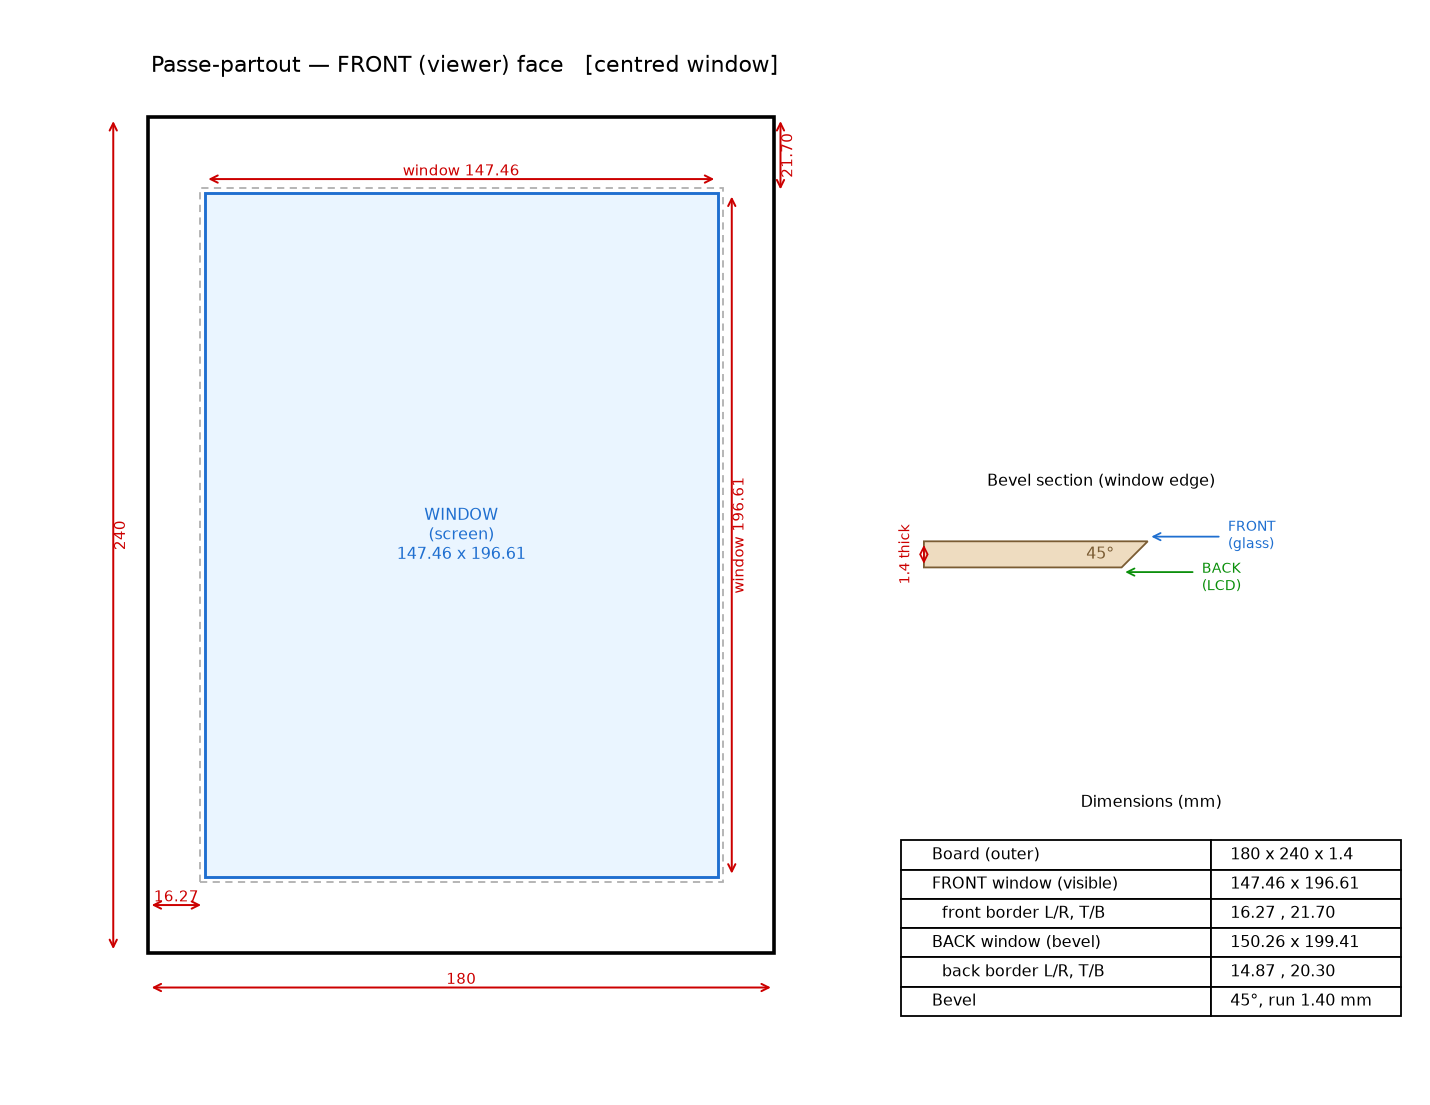
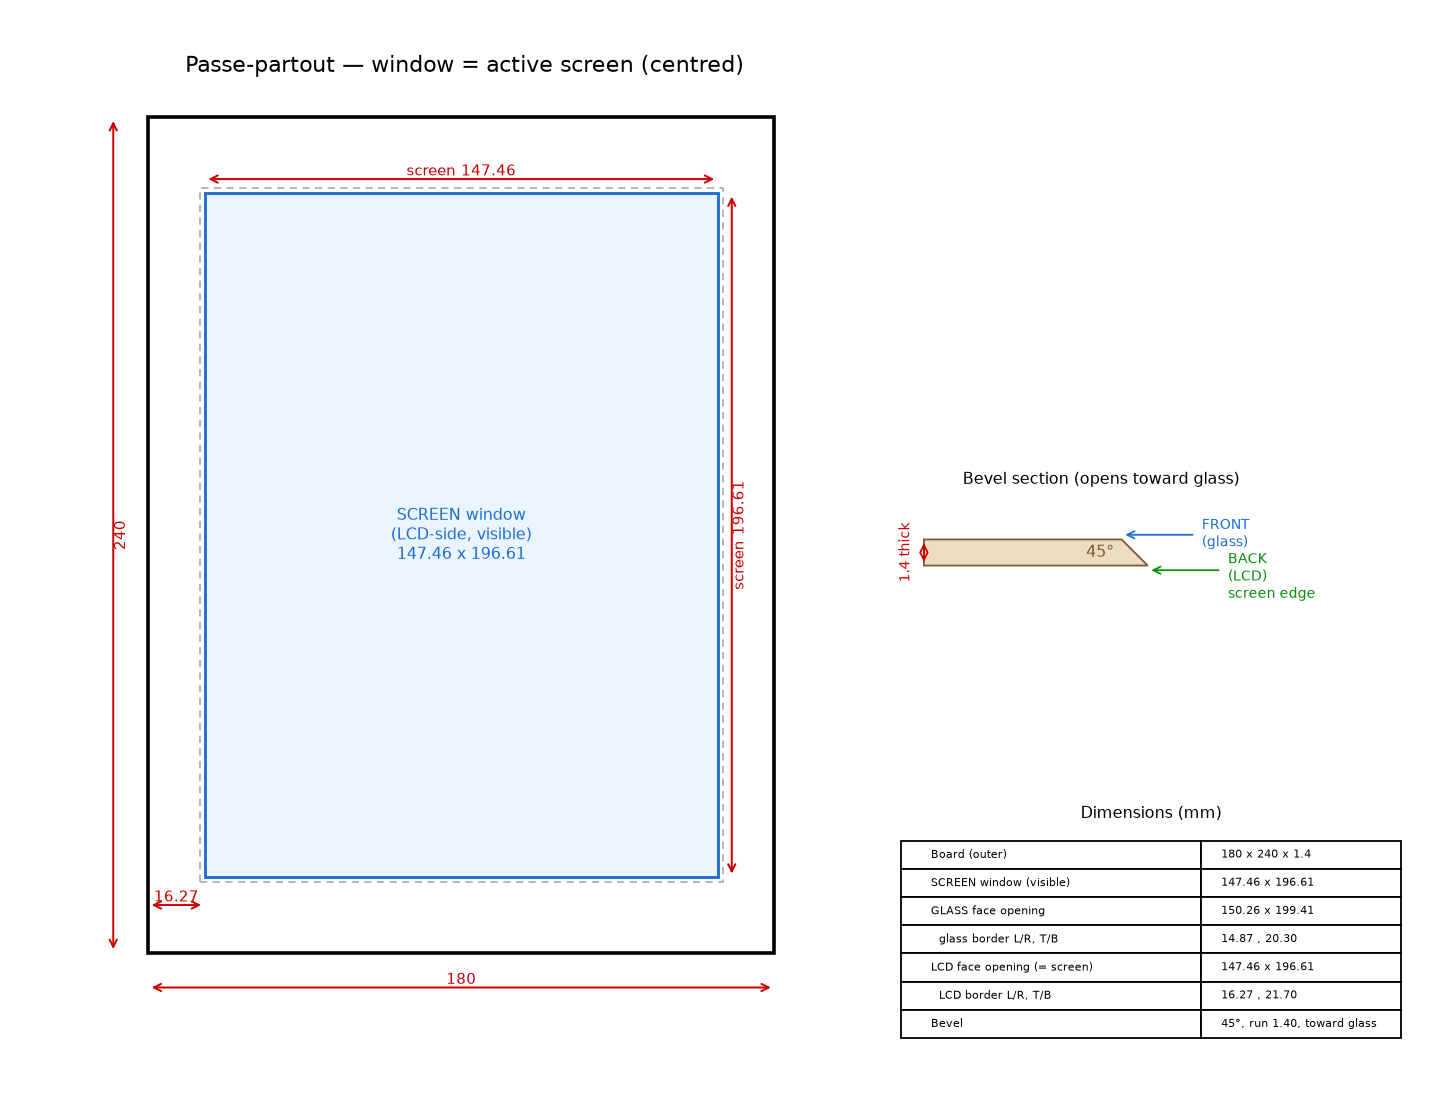
Passe-partout: flip bevel to open toward the glass (screen edge on the LCD side)
Bevel was on the wrong side (standard picture-mat: small opening at the glass).
For a screen the limiting edge should sit at the screen plane: put the
screen-sized opening (147.46 x 196.61) on the LCD-facing back face and flare the
45deg bevel toward the glass/viewer. Glass-face opening 150.26 x 199.41 (borders
14.87/20.30); LCD-face borders 16.27/21.70. BEVEL_TOWARD param ('glass' default,
'lcd' for standard). DXF layers WINDOW_SCREEN / WINDOW_GLASS.

diff --git a/passepartout.py b/passepartout.py
@@ -3,100 +3,110 @@
 that reveals only the active screen (147.456 x 196.608). The brackets centre the ACTIVE area at the
 frame centre, so the window is centred in the board (symmetric).
 
-Outputs: images/passepartout.png (dimensioned drawing) + passepartout.dxf (cut lines) + a printed
-dimension table.
-Run: cqenv/bin/python passepartout.py   (uses matplotlib; DXF is hand-rolled, no deps)
+Bevel: the SCREEN-sized (limiting) opening is on the LCD-facing (back) face, right at the screen
+plane; the bevel opens OUT toward the glass/viewer (white bevel faces you). Set BEVEL_TOWARD="lcd"
+for the standard picture-mat direction (small opening at the glass).
+
+Outputs: images/passepartout.png (dimensioned drawing) + passepartout.dxf + a printed table.
+Run: cqenv/bin/python passepartout.py
 """
-import json
+import json, math
 import matplotlib
 matplotlib.use("Agg")
 import matplotlib.pyplot as plt
-from matplotlib.patches import Rectangle
+from matplotlib.patches import Rectangle, Polygon
 
 G = json.load(open("geometry.json"))
 ACT_W, ACT_H = G["active"]["W"], G["active"]["H"]          # 147.456 x 196.608 (the lit screen)
 
 # ---- parameters ----
-BOARD_W, BOARD_H = 180.0, 240.0     # mat outer size (frame inner is 182x242 -> ~1mm clearance/side)
+BOARD_W, BOARD_H = 180.0, 240.0     # mat outer (frame inner 182x242 -> ~1mm clearance/side)
 THICK = 1.4                         # mat thickness
-BEVEL_DEG = 45.0                    # cutter angle
-OVERLAP = 0.0                       # mat covers this much of the screen edge all round (raise to ~1.0
-                                    # to guarantee no bezel sliver if alignment is imperfect)
+BEVEL_DEG = 45.0
+OVERLAP = 0.0                       # mat covers this much of the screen edge all round (raise ~1.0
+                                    # to guarantee no bezel sliver)
+BEVEL_TOWARD = "glass"              # "glass" = bevel opens toward viewer, screen-sized edge on LCD side
+                                    # "lcd"   = standard picture-mat, screen-sized edge on glass side
 
-import math
-RUN = THICK * math.tan(math.radians(BEVEL_DEG))            # horizontal bevel run = 1.4 at 45 deg
-FW, FH = ACT_W - 2 * OVERLAP, ACT_H - 2 * OVERLAP          # FRONT (visible) window = what you see
-BW, BH = FW + 2 * RUN, FH + 2 * RUN                        # BACK window (bevel flares toward the LCD)
-fbx, fby = (BOARD_W - FW) / 2, (BOARD_H - FH) / 2          # front border L/R, T/B
-bbx, bby = (BOARD_W - BW) / 2, (BOARD_H - BH) / 2          # back border
+RUN = THICK * math.tan(math.radians(BEVEL_DEG))            # 1.4 at 45 deg
+SW, SH = ACT_W - 2 * OVERLAP, ACT_H - 2 * OVERLAP          # SCREEN opening (limiting / crop = visible)
+LW, LH = SW + 2 * RUN, SH + 2 * RUN                        # the LARGER opening on the other face
+
+if BEVEL_TOWARD == "glass":     # screen-sized edge on the LCD/back face; flare toward the glass
+    glassW, glassH = LW, LH     # glass (front) opening = larger
+    lcdW, lcdH = SW, SH         # lcd (back) opening = screen
+else:                            # standard: screen-sized edge on the glass/front face
+    glassW, glassH = SW, SH
+    lcdW, lcdH = LW, LH
+
+gbx, gby = (BOARD_W - glassW) / 2, (BOARD_H - glassH) / 2  # glass-side borders
+lbx, lby = (BOARD_W - lcdW) / 2, (BOARD_H - lcdH) / 2      # lcd-side borders
 
 print("=== Passe-partout dimensions (mm) ===")
-print(f"Board (outer)        : {BOARD_W} x {BOARD_H}  x {THICK} thick")
-print(f"FRONT window (visible): {FW:.3f} x {FH:.3f}   (= active screen{'' if OVERLAP==0 else f' - {OVERLAP} overlap'})")
-print(f"  front borders       : {fbx:.3f} (L=R)   {fby:.3f} (T=B)")
-print(f"BACK window           : {BW:.3f} x {BH:.3f}   (45deg bevel, +{RUN:.2f}/edge toward LCD)")
-print(f"  back borders        : {bbx:.3f} (L=R)   {bby:.3f} (T=B)")
+print(f"Board (outer)        : {BOARD_W} x {BOARD_H} x {THICK}   bevel opens toward {BEVEL_TOWARD.upper()}")
+print(f"SCREEN opening (visible/crop): {SW:.3f} x {SH:.3f}  -> on the {'LCD/back' if BEVEL_TOWARD=='glass' else 'glass/front'} face")
+print(f"GLASS (front) face opening   : {glassW:.3f} x {glassH:.3f}   borders {gbx:.3f} (L=R) , {gby:.3f} (T=B)")
+print(f"LCD   (back)  face opening   : {lcdW:.3f} x {lcdH:.3f}   borders {lbx:.3f} (L=R) , {lby:.3f} (T=B)")
+print(f"Bevel: 45 deg, run {RUN:.2f} mm/edge")
 
 # ---------------- DRAWING ----------------
 fig = plt.figure(figsize=(11, 8.5))
 ax = fig.add_axes([0.05, 0.07, 0.55, 0.86]); ax.set_aspect("equal")
-# board
-ax.add_patch(Rectangle((0, 0), BOARD_W, BOARD_H, fill=False, ec="black", lw=2))
-# front window (solid) + back window (dashed = bevel flare)
-ax.add_patch(Rectangle((bbx, bby), BW, BH, fill=False, ec="#b0b0b0", lw=1.0, ls=(0, (4, 3))))
-ax.add_patch(Rectangle((fbx, fby), FW, FH, fill="#dff0ff", ec="#1f6fd0", lw=1.6, fc="#eaf5ff"))
-ax.text(BOARD_W / 2, BOARD_H / 2, "WINDOW\n(screen)\n%.2f x %.2f" % (FW, FH),
+ax.add_patch(Rectangle((0, 0), BOARD_W, BOARD_H, fill=False, ec="black", lw=2))           # board
+ax.add_patch(Rectangle((gbx, gby), glassW, glassH, fill=False, ec="#b0b0b0", lw=1.0, ls=(0, (4, 3))))  # glass-side opening
+ax.add_patch(Rectangle((lbx, lby), lcdW, lcdH, fill="#dff0ff", ec="#1f6fd0", lw=1.6, fc="#eaf5ff"))    # screen (LCD side)
+ax.text(BOARD_W / 2, BOARD_H / 2, "SCREEN window\n(LCD-side, visible)\n%.2f x %.2f" % (SW, SH),
         ha="center", va="center", color="#1f6fd0", fontsize=9)
+
 
 def dim_h(x0, x1, y, txt, off=0):
     ax.annotate("", (x0, y), (x1, y), arrowprops=dict(arrowstyle="<->", color="#c00", lw=1.1))
     ax.text((x0 + x1) / 2, y + off, txt, ha="center", va="bottom", color="#c00", fontsize=8.5)
 
+
 def dim_v(x, y0, y1, txt, off=0):
     ax.annotate("", (x, y0), (x, y1), arrowprops=dict(arrowstyle="<->", color="#c00", lw=1.1))
     ax.text(x + off, (y0 + y1) / 2, txt, ha="left", va="center", color="#c00", fontsize=8.5, rotation=90)
 
-dim_h(0, BOARD_W, -10, f"{BOARD_W:.0f}")                         # outer width
-dim_v(-10, 0, BOARD_H, f"{BOARD_H:.0f}")                         # outer height
-dim_h(fbx, fbx + FW, fby + FH + 4, f"window {FW:.2f}")           # window width
-dim_v(fbx + FW + 4, fby, fby + FH, f"window {FH:.2f}")           # window height
-dim_h(0, fbx, fby - 8, f"{fbx:.2f}")                             # left border
-dim_v(fbx + FW + 18, fby + FH, BOARD_H, f"{fby:.2f}")            # top border
+
+dim_h(0, BOARD_W, -10, f"{BOARD_W:.0f}")
+dim_v(-10, 0, BOARD_H, f"{BOARD_H:.0f}")
+dim_h(lbx, lbx + lcdW, lby + lcdH + 4, f"screen {SW:.2f}")
+dim_v(lbx + lcdW + 4, lby, lby + lcdH, f"screen {SH:.2f}")
+dim_h(0, lbx, lby - 8, f"{lbx:.2f}")                                       # lcd-side border (screen)
 ax.set_xlim(-22, BOARD_W + 24); ax.set_ylim(-20, BOARD_H + 10)
-ax.set_title("Passe-partout — FRONT (viewer) face   [centred window]")
+ax.set_title("Passe-partout — window = active screen (centred)")
 ax.axis("off")
 
-# ---- bevel cross-section detail (right) ----
-bx = fig.add_axes([0.62, 0.30, 0.30, 0.40])
-T = THICK; r = RUN; scale = 1
-# section: top = FRONT/glass (small opening), bottom = BACK/LCD (large opening). show left edge of window.
-# draw mat material as two trapezoids on each side; here show the left edge bevel
-x_face_front = 0.0          # front inner edge (window edge, viewer)
-x_face_back = -r            # back inner edge (flares outward toward LCD)
-# mat body to the left
-bx.add_patch(plt.Polygon([(-12, 0), (x_face_back, 0), (x_face_front, T), (-12, T)],
-                         closed=True, fc="#eedcc0", ec="#7a5c33"))
-bx.annotate("", (x_face_front, T + 0.25), (x_face_front + 4, T + 0.25), arrowprops=dict(arrowstyle="->", color="#1f6fd0"))
-bx.text(x_face_front + 4.3, T + 0.3, "FRONT\n(glass)", va="center", fontsize=8, color="#1f6fd0")
-bx.annotate("", (x_face_back, -0.25), (x_face_back + 4, -0.25), arrowprops=dict(arrowstyle="->", color="#0a8f0a"))
-bx.text(x_face_back + 4.3, -0.55, "BACK\n(LCD)", va="center", fontsize=8, color="#0a8f0a")
+# ---- bevel cross-section (top = FRONT/glass, bottom = BACK/LCD) ----
+bx = fig.add_axes([0.62, 0.30, 0.30, 0.40]); T = THICK; r = RUN
+# inner window edges (left edge): glass-face at xg, lcd-face at xl ; screen edge is the smaller opening
+xg = 0.0 if BEVEL_TOWARD == "lcd" else -r        # glass-face inner edge
+xl = -r if BEVEL_TOWARD == "lcd" else 0.0        # lcd-face inner edge
+bx.add_patch(Polygon([(-12, 0), (xl, 0), (xg, T), (-12, T)], closed=True, fc="#eedcc0", ec="#7a5c33"))
+bx.annotate("", (xg, T + 0.25), (xg + 4, T + 0.25), arrowprops=dict(arrowstyle="->", color="#1f6fd0"))
+bx.text(xg + 4.3, T + 0.3, "FRONT\n(glass)", va="center", fontsize=8, color="#1f6fd0")
+bx.annotate("", (xl, -0.25), (xl + 4, -0.25), arrowprops=dict(arrowstyle="->", color="#0a8f0a"))
+bx.text(xl + 4.3, -0.6, "BACK\n(LCD)\nscreen edge" if BEVEL_TOWARD == "glass" else "BACK\n(LCD)",
+        va="center", fontsize=8, color="#0a8f0a")
 bx.annotate("", (-12, 0), (-12, T), arrowprops=dict(arrowstyle="<->", color="#c00", lw=1))
 bx.text(-12.6, T / 2, f"{T} thick", rotation=90, ha="right", va="center", color="#c00", fontsize=8)
-bx.text(x_face_back - 0.4, T / 2, "45°", ha="right", va="center", fontsize=9, color="#7a5c33")
-bx.set_xlim(-14, 9); bx.set_ylim(-2.2, T + 2.4); bx.set_aspect("equal"); bx.axis("off")
-bx.set_title("Bevel section (window edge)", fontsize=9)
+bx.text(min(xg, xl) - 0.4, T / 2, "45°", ha="right", va="center", fontsize=9, color="#7a5c33")
+bx.set_xlim(-14, 9); bx.set_ylim(-2.4, T + 2.4); bx.set_aspect("equal"); bx.axis("off")
+bx.set_title("Bevel section (opens toward glass)", fontsize=9)
 
-# ---- dimension table (bottom right) ----
-tx = fig.add_axes([0.63, 0.06, 0.35, 0.2]); tx.axis("off")
+# ---- table ----
+tx = fig.add_axes([0.63, 0.05, 0.35, 0.2]); tx.axis("off")
 rows = [
     ("Board (outer)", f"{BOARD_W:.0f} x {BOARD_H:.0f} x {THICK}"),
-    ("FRONT window (visible)", f"{FW:.2f} x {FH:.2f}"),
-    ("  front border L/R, T/B", f"{fbx:.2f} , {fby:.2f}"),
-    ("BACK window (bevel)", f"{BW:.2f} x {BH:.2f}"),
-    ("  back border L/R, T/B", f"{bbx:.2f} , {bby:.2f}"),
-    ("Bevel", f"45°, run {r:.2f} mm"),
+    ("SCREEN window (visible)", f"{SW:.2f} x {SH:.2f}"),
+    ("GLASS face opening", f"{glassW:.2f} x {glassH:.2f}"),
+    ("  glass border L/R, T/B", f"{gbx:.2f} , {gby:.2f}"),
+    ("LCD face opening (= screen)", f"{lcdW:.2f} x {lcdH:.2f}"),
+    ("  LCD border L/R, T/B", f"{lbx:.2f} , {lby:.2f}"),
+    ("Bevel", f"45°, run {r:.2f}, toward {BEVEL_TOWARD}"),
 ]
-tx.table(cellText=rows, colWidths=[0.62, 0.38], loc="center", cellLoc="left").scale(1, 1.35)
+tx.table(cellText=rows, colWidths=[0.6, 0.4], loc="center", cellLoc="left").scale(1, 1.3)
 tx.set_title("Dimensions (mm)", fontsize=9)
 
 fig.savefig("images/passepartout.png", dpi=130)
@@ -107,10 +117,11 @@ def rect(cx, cy, w, h):
     x0, y0, x1, y1 = cx - w / 2, cy - h / 2, cx + w / 2, cy + h / 2
     return [(x0, y0, x1, y0), (x1, y0, x1, y1), (x1, y1, x0, y1), (x0, y1, x0, y0)]
 
+
 ox, oy = BOARD_W / 2, BOARD_H / 2
 lines = {"BOARD": rect(ox, oy, BOARD_W, BOARD_H),
-         "WINDOW_FRONT": rect(ox, oy, FW, FH),
-         "WINDOW_BACK": rect(ox, oy, BW, BH)}
+         "WINDOW_SCREEN": rect(ox, oy, SW, SH),          # LCD-side, the visible crop
+         "WINDOW_GLASS": rect(ox, oy, glassW, glassH)}   # glass-side (larger, bevel mouth)
 out = ["0", "SECTION", "2", "ENTITIES"]
 for layer, segs in lines.items():
     for (x0, y0, x1, y1) in segs:
@@ -119,4 +130,4 @@ for layer, segs in lines.items():
                 "11", f"{x1:.4f}", "21", f"{y1:.4f}", "31", "0.0"]
 out += ["0", "ENDSEC", "0", "EOF"]
 open("passepartout.dxf", "w").write("\n".join(out) + "\n")
-print("wrote passepartout.dxf  (layers BOARD / WINDOW_FRONT / WINDOW_BACK)")
+print("wrote passepartout.dxf  (layers BOARD / WINDOW_SCREEN / WINDOW_GLASS)")

diff --git a/README.md b/README.md
@@ -68,7 +68,7 @@ protruding **~1.2 mm behind** the rear face (Z −1.20..0) — footprint approxi
 | `build_brackets.py` | builds the two brackets from `geometry.json` + frame params (cadquery) |
 | `brackets.scad` | parametric OpenSCAD source for the brackets |
 | `verify_brackets.py` | assembly + side-section check images for the brackets |
-| `passepartout.dxf` | mat cut lines (BOARD / WINDOW_FRONT / WINDOW_BACK layers) |
+| `passepartout.dxf` | mat cut lines (BOARD / WINDOW_SCREEN / WINDOW_GLASS layers) |
 | `passepartout.py` | builds the mat drawing + DXF (180×240, 45° bevel window = screen) |
 | `LP097QX1-SPC1.pdf` | source datasheet (© LG Display) |
 
@@ -177,22 +177,26 @@ is **centred** in the board (symmetric — equal borders).
 
 ![passe-partout](images/passepartout.png)
 
+**Bevel opens toward the glass/viewer** — the screen-sized (limiting) edge is on the **LCD-facing
+(back) face**, sitting right at the screen plane; the 45° bevel flares **1.4 mm/edge toward the glass**
+so the white bevel faces you.
+
 | feature | mm |
 |---|---|
 | Board (outer) | 180 × 240 × 1.4 |
-| **Front window** (visible / viewer side) | **147.46 × 196.61** (= active screen) |
-| Front border — L/R, T/B | **16.27**, **21.70** |
-| Back window (bevel, toward LCD) | 150.26 × 199.41 |
-| Back border — L/R, T/B | 14.87, 20.30 |
-| Bevel | 45°, run 1.40 mm/edge |
+| **Screen window** (visible crop, on LCD-side face) | **147.46 × 196.61** (= active screen) |
+| LCD-face border — L/R, T/B | **16.27**, **21.70** |
+| Glass-face opening (larger, bevel mouth) | 150.26 × 199.41 |
+| Glass-face border — L/R, T/B | 14.87, 20.30 |
+| Bevel | 45°, run 1.40 mm/edge, opens toward glass |
 
-- The **front (glass-side) opening is the visible one** (= the screen); the 45° bevel flares **1.4 mm
-  per edge toward the LCD**, so the white bevel faces the viewer and casts no shadow on the image.
-- Manual cutter: set the border guide to the **front borders** (16.27 / 21.70) and cut from the back;
-  the bevel undercuts toward the LCD. `WINDOW_FRONT` in the DXF is the visible cut line.
-- To guarantee no bezel sliver if alignment isn't perfect, set `OVERLAP=1.0` in `passepartout.py`
-  (mat then covers ~1 mm of the screen edge → front borders 17.27 / 22.70).
-- Board outer 180 × 240 sits in the 182 × 242 frame with ~1 mm clearance/side — keep it centred so the
+- The **screen-sized opening is on the LCD side** (147.46 × 196.61) and crops exactly to the screen;
+  the bevel widens to **150.26 × 199.41** at the glass face. White bevel faces the viewer.
+- Manual cutter: cut so the **small (screen-sized) opening is on the LCD-facing side**; the 45° bevel
+  mouth opens toward the glass. `WINDOW_SCREEN` in the DXF is the crop edge, `WINDOW_GLASS` the mouth.
+- Set `BEVEL_TOWARD="lcd"` in `passepartout.py` for the standard picture-mat direction (screen edge on
+  the glass face instead). `OVERLAP=1.0` covers ~1 mm of the screen edge (no bezel sliver).
+- Board 180 × 240 sits in the 182 × 242 frame with ~1 mm clearance/side — keep it centred so the
   window lines up with the (centred) screen.
 
 ## Accuracy